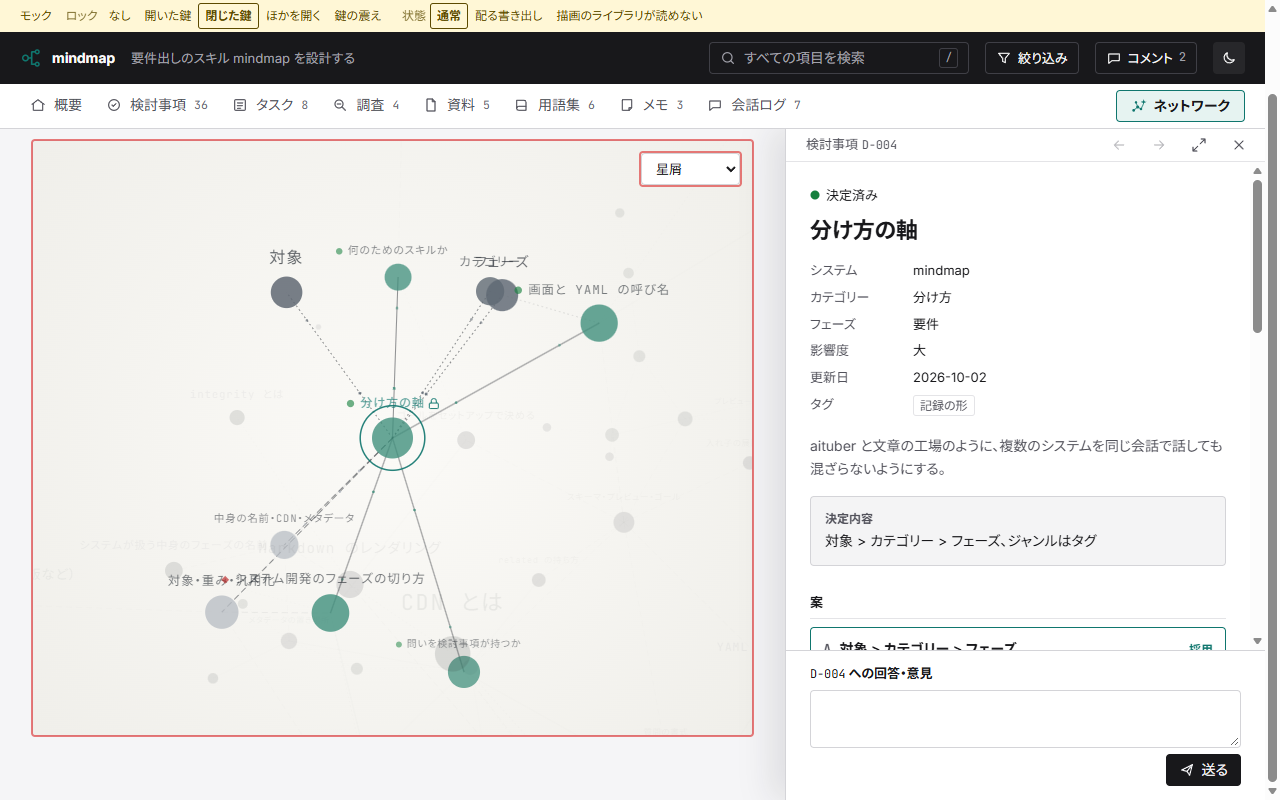
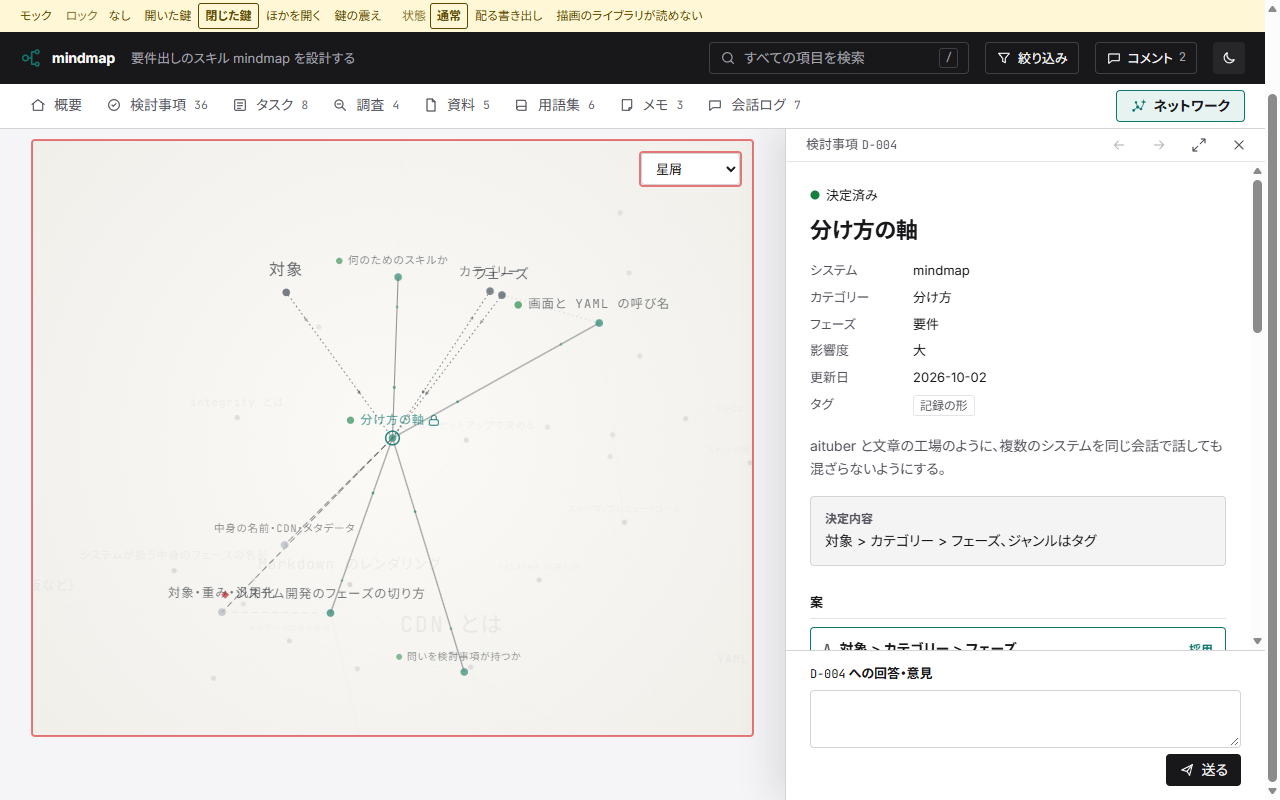
mock: 星屑の星を寄っても細かな点のままにし、灯る星だけ少し大きくする

diff --git a/dev/mock/refs/123/assets/stella.js b/dev/mock/refs/123/assets/stella.js
@@ -7,6 +7,8 @@
   const TWINKLE_PERIOD = 1900;  // 星のまたたきの周期（ms）
   const PULSE_PERIOD = 3600;    // 選んだ星から広がる輪の周期（ms）
   const SPRITE = 128;           // 光の玉の絵の一辺（px）
+  const DUST_MAX = 2.6;         // 星屑の点の半径の上限（px）
+  const DUST_LIT_MAX = 3.8;     // 星屑の灯る星の半径の上限（px）
 
   /** 文字列から 0〜1 の決まった値を作る（玉ごとのまたたきの位相に使う） */
   const hash = (s) => { let h = 2166136261; for (const c of s) h = Math.imul(h ^ c.charCodeAt(0), 16777619); return ((h >>> 0) % 10000) / 10000; };
@@ -340,7 +342,6 @@
 
     dust: {
       label: "星屑", note: "色を抜いた細かな点と髪の毛ほどの線だけ。選んだ星とつながる星にだけ色が灯る",
-      labelLift: 0.7,
       /** いちばん簡素な案: 無彩色の点と細い線。注目したものだけ種類の色を灯す */
       draw(e) {
         const { ctx, C, dark, W, H } = e, ink = dark ? "#dfe3ea" : "#24282e";
@@ -357,7 +358,9 @@
           const lit = d.strong || d.selected || (e.sel && e.near.has(d.n.id));
           ctx.globalAlpha = alphaOf(d) * (lit ? 1 : 0.85);
           ctx.fillStyle = lit ? d.color : ink;
-          circle(ctx, d.p.sx, d.p.sy, Math.max(1, d.rad * (lit ? 0.7 : 0.5)));
+          // 寄っても細かな点のままにする（灯る星だけ少し大きく）。名前・輪・鍵もこの点の大きさに合わせて置く
+          d.rad = Math.max(1, Math.min(d.rad * (lit ? 0.7 : 0.5), lit ? DUST_LIT_MAX : DUST_MAX));
+          circle(ctx, d.p.sx, d.p.sy, d.rad);
           ring(e, d, 3);
         }
       },
